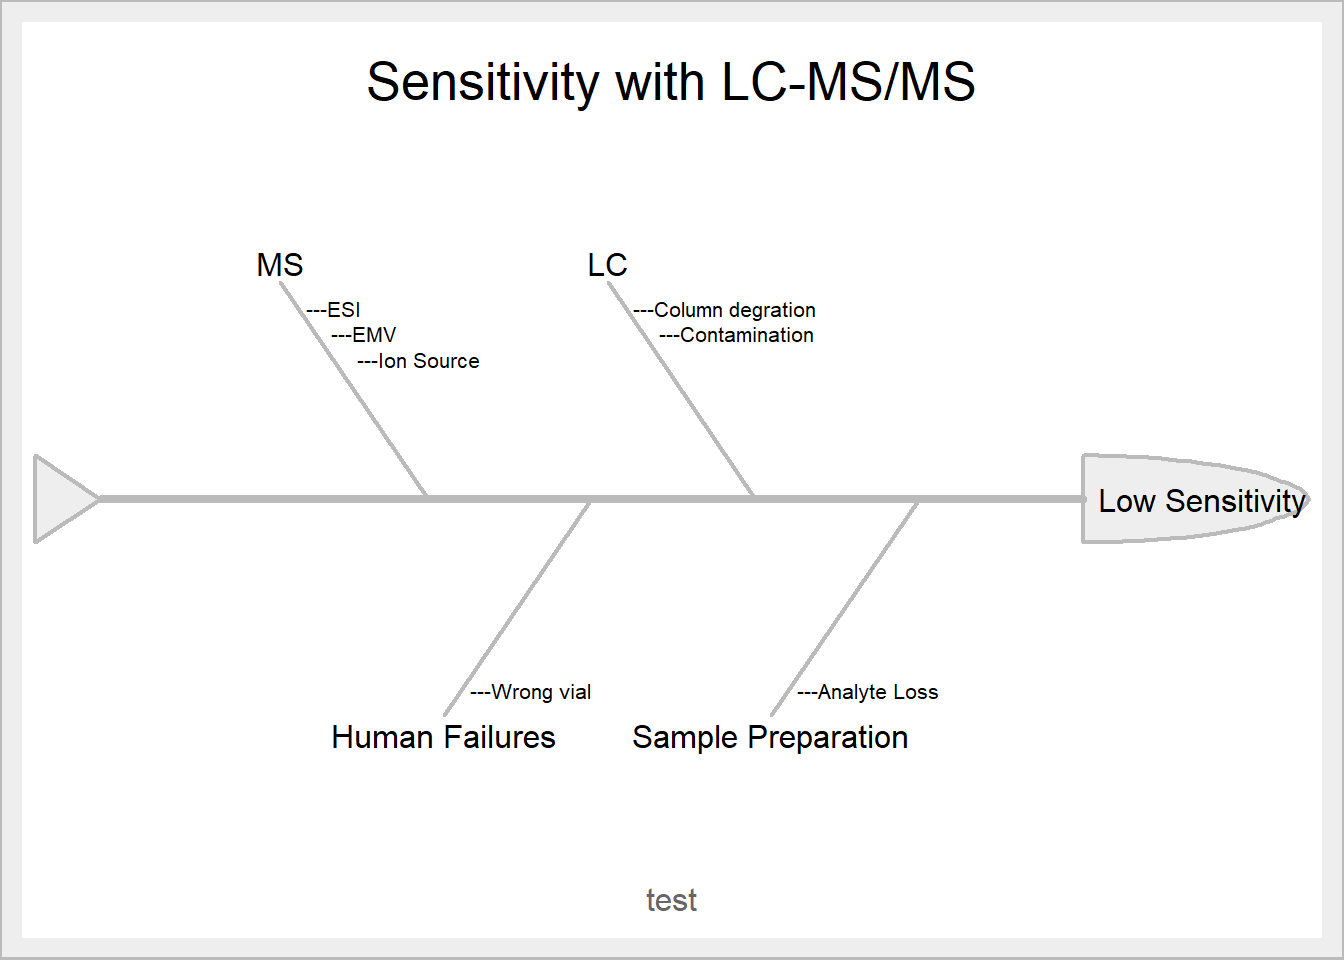
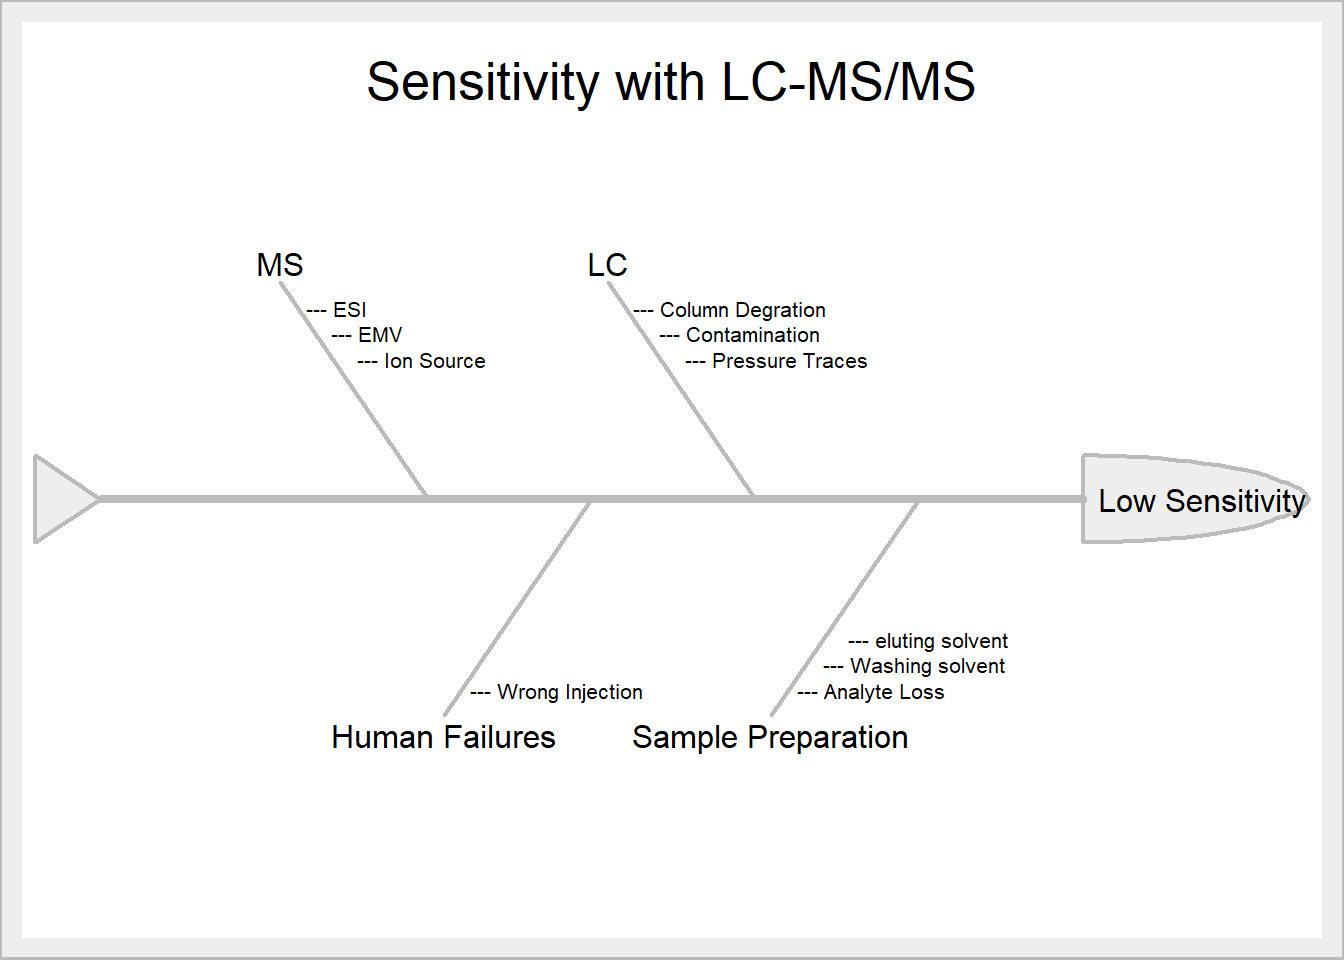
2022.08.16 9:53am

diff --git a/content/posts/2020-12-01-r-rmarkdown/index.html b/content/posts/2020-12-01-r-rmarkdown/index.html
@@ -8,6 +8,21 @@ tags: ["R Markdown", "plot", "regression"]
 
 
 
+<div id="fishbone-diagram" class="section level1">
+<h1>Fishbone diagram</h1>
+<pre class="r"><code>library(SixSigma)
+## Warning: package &#39;SixSigma&#39; was built under R version 4.2.1
+
+effect &lt;- &quot;Low Sensitivity&quot;
+causes.gr &lt;- c(&quot;MS&quot;, &quot;LC&quot;, &quot;Sample Preparation&quot;, &quot;Human Failures&quot;)
+causes &lt;- vector(mode = &quot;list&quot;, length = length(causes.gr))
+causes[1] &lt;- list(c(&quot;---ESI&quot;, &quot;---EMV&quot;, &quot;---Ion Source&quot;))
+causes[2] &lt;- list(c(&quot;---Column degration&quot;, &quot;---Contamination&quot;))
+causes[3] &lt;- list(c(&quot;---Analyte Loss&quot;))
+causes[4] &lt;- list(c(&quot;---Wrong vial&quot;, &quot;&quot;, &quot;&quot;))
+ss.ceDiag(effect, causes.gr, causes, main = &quot;Sensitivity with LC-MS/MS&quot;, sub = &quot;test&quot;)</code></pre>
+<p><img src="{{< blogdown/postref >}}index_files/figure-html/unnamed-chunk-1-1.png" width="672" /></p>
+</div>
 <div id="r-markdown" class="section level1">
 <h1>R Markdown</h1>
 <p>This is an R Markdown document. Markdown is a simple formatting syntax for authoring HTML, PDF, and MS Word documents. For more details on using R Markdown see <a href="http://rmarkdown.rstudio.com" class="uri">http://rmarkdown.rstudio.com</a>.</p>
@@ -46,19 +61,4 @@ pie(
 Figure 1: A fancy pie chart.
 </p>
 </div>
-</div>
-<div id="fishbone-diagram" class="section level1">
-<h1>Fishbone diagram</h1>
-<pre class="r"><code>library(SixSigma)
-## Warning: package &#39;SixSigma&#39; was built under R version 4.2.1
-
-effect &lt;- &quot;Low Sensitivity&quot;
-causes.gr &lt;- c(&quot;MS&quot;, &quot;LC&quot;, &quot;Sample Preparation&quot;, &quot;Human Failures&quot;)
-causes &lt;- vector(mode = &quot;list&quot;, length = length(causes.gr))
-causes[1] &lt;- list(c(&quot;---ESI&quot;, &quot;---EMV&quot;, &quot;---Ion Source&quot;))
-causes[2] &lt;- list(c(&quot;---Column degration&quot;, &quot;---Contamination&quot;))
-causes[3] &lt;- list(c(&quot;---Analyte Loss&quot;))
-causes[4] &lt;- list(c(&quot;---Wrong vial&quot;, &quot;&quot;, &quot;&quot;))
-ss.ceDiag(effect, causes.gr, causes, main = &quot;Sensitivity with LC-MS/MS&quot;, sub = &quot;test&quot;)</code></pre>
-<p><img src="{{< blogdown/postref >}}index_files/figure-html/unnamed-chunk-1-1.png" width="672" /></p>
 </div>

diff --git a/content/docs/01 Mass Spec LC-MS/Part 05 Troubleshooting/01_Troubleshooting_strategy.md b/content/docs/01 Mass Spec LC-MS/Part 05 Troubleshooting/01_Troubleshooting_strategy.md
@@ -17,15 +17,35 @@ toc: true
 <!--more-->
 
 ---
-The first step is to list the potential root causes to the problem.  Build a fishbone diagram if you wish. If you had a problem of sensitivity with LC-MS/MS.  The root causes would be:
-1) MS part
-1) ESI  
-2) dirty ion source
-3) 
+The first step is to list the potential root causes to the problem.  Build a Fishbone (Cause and Effect) diagram if you wish. Below is an example
+
+<img width ="360" height= "200" src = "/docs/images/Screenshot 2022-08-15 110558.png"/>
+
+The causes are broken into four categories.  
+
+How do I know where I look into?  
+- Build up a system, so that each cause should be monitored and there were reference so that we know we deviate from it. 
+- Rule out easy cause(s) firstly  
 
 
 
-## Part I Building up a system
+{{< mermaid >}}
+stateDiagram-v2
+    State1: Monitoring Parameters <br> (Establish baseline during method validation and <br> monitor the performance during routine analysis)<br>&emsp;1) Spiked blank at LOQ <br>&emsp;&emsp;- Peak Area and Action Limits <br>&emsp;&emsp;- Analyte-to-Internal Standard Ratio and Action Limits <br>&emsp;&emsp;- Qualifier-to-Quantifier Ratio and Action Limits <br>&emsp;2) Method Blank <br>&emsp;&emsp;- Contaminate Peak Area and Action Limits <br>&emsp;3) Key parameters on autotune reports <br>&emsp;&emsp;- Infusion analysis <br>&emsp;&emsp;- Vacuum readings <br>&emsp;&emsp;- Readbacks on airflow <br>&emsp;&emsp;- Temperature <br>&emsp;4) MS/MS <br>&emsp;&emsp;- EMV, ESI <br>&emsp;5) LC <br>&emsp;&emsp;- Pressure traces
+    State2: Troubleshooting Database/Logbooks <br>&emsp;- Symptoms and solutions <br>&emsp;- Searchable
+    State3: Maintenance Logbooks <br>&emsp;- Replacement of column, mobile phase <br>&emsp;- Preventive maintenace
+    State4: Breakdown the System <br>&emsp;1) Human Failures <br>&emsp;2) MS/MS <br>&emsp;3) LC <br>&emsp;4) Sample Preparation
+    State5: Troubleshooting Tips <br>&emsp;1) Make one change at a time <br>&emsp;2) Go backward from the end to the beginning <br>&emsp;3) Unscheduled method
+    State1 --> State4
+    State2 --> State4
+    State3 --> State4
+    State4 --> State5
+{{< /mermaid >}}
+
+
+
+
+## Part I Building up a monitoring system
 
 ### At the beginning
 The program starts at the very beginning when the instrument was commissioned.  Collect the following information at its best condition.
@@ -58,8 +78,10 @@ On top of the scheduled preventive maintenance, the program is executed on a reg
 &emsp;1. Verify acceptable separation of peaks most sensitive to column degradation (if applicable).  
 &emsp;2. 
 
+## Part II Build up a troublshooting database
+symptoms, solutions, searchable
 
-## Part II Troubleshooting
+## Part III Troubleshooting
 
 ### Level I: Easily-fixed problem
 rule out operator false, such as wrong injection,  
@@ -88,7 +110,7 @@ They are:
 
 Troubleshooting workflow:
 ) rule out simple problem.  
-) isolate area. [sample preparation, mass spectrometer, HPLC,  
+) isolate area. [sample preparation, mass spectrometer, HPLC]  
 ) 
 ) 
 
